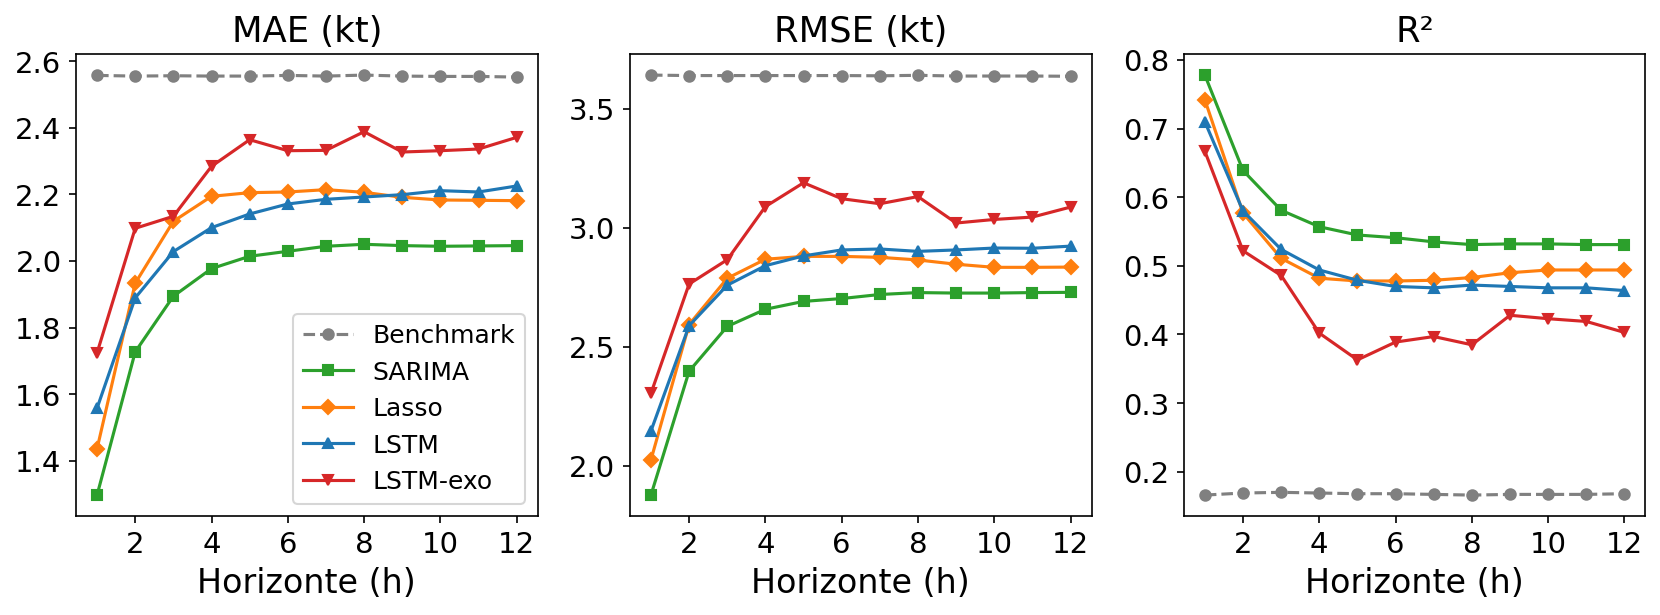
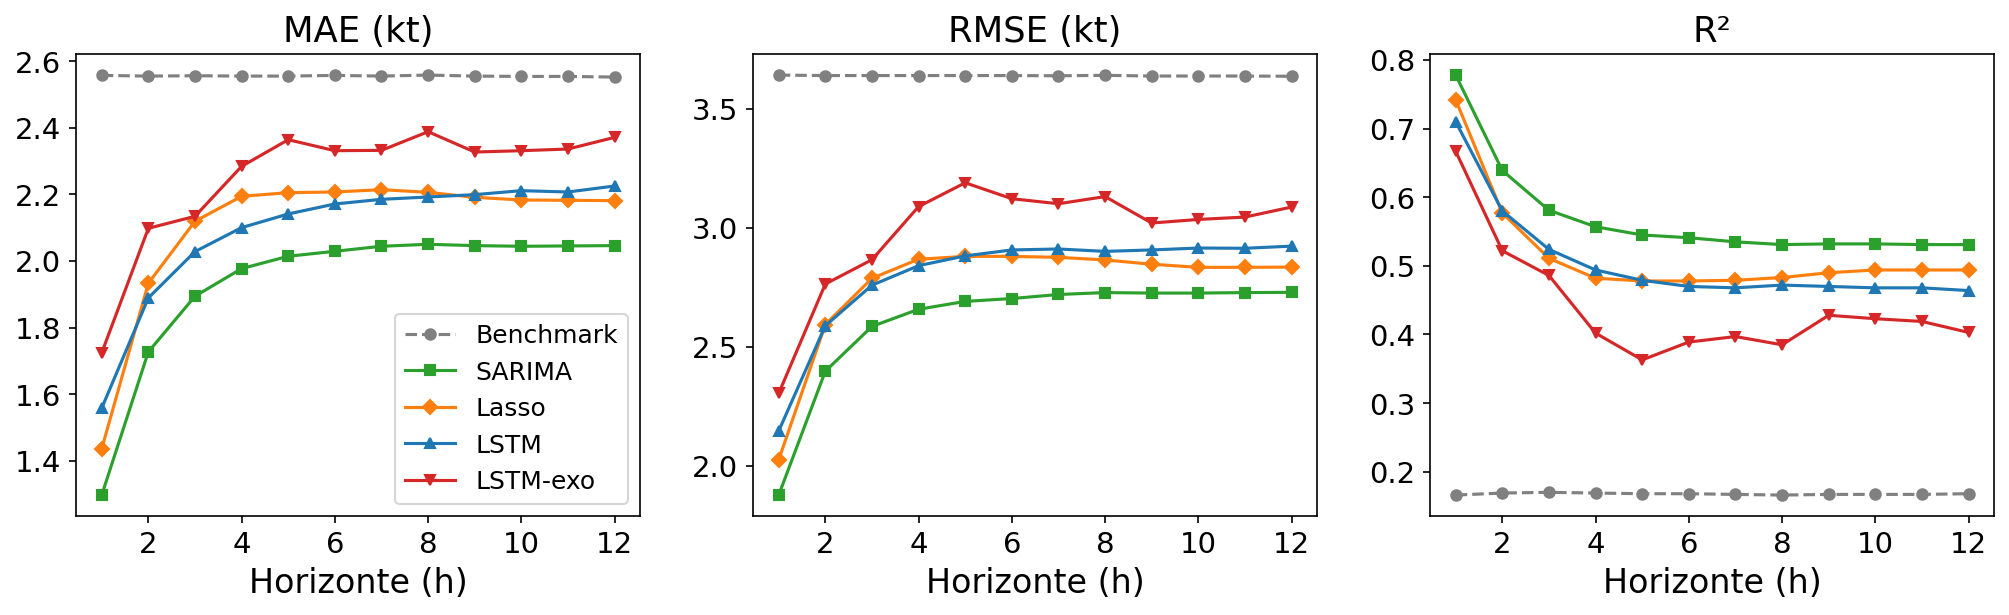
Rediseñar layout de slides y ajustar figuras
- Reducir fuente a 12pt y top-alinear todos los frames (opción t)
- Espaciado uniforme texto/gráfico y figuras al máximo tamaño
- Slide benchmark: nueva figura observado vs persistencia
- SARIMA diagnóstico: quitar paneles de error
- Redes neuronales: separar en dos slides (RMSE / val vs test)
- SARIMA selección y conclusiones: estructura vertical
- Comparación final: regenerar más ancha sin distorsión

diff --git a/presentacion/presentacion.tex b/presentacion/presentacion.tex
@@ -1,6 +1,6 @@
 % Presentación TP final — Pronóstico de viento en Potrerillos
 % Compilar: tectonic presentacion.tex
-\documentclass[17pt,aspectratio=169]{beamer}
+\documentclass[12pt,aspectratio=169,t]{beamer}
 
 \usetheme{Madrid}
 \usecolortheme{seahorse}
@@ -52,12 +52,13 @@
 % ---------- Slide 3: datos ----------
 \begin{frame}{Datos}
   \begin{itemize}\itemsep0pt
-    \item \textbf{Ago 2025 $\to$ abr 2026} ($\sim$8.5 meses) --- 1 dato/min $\to$ \textbf{resampleo 1\,h} (6145 obs)
+    \item \textbf{Ago 2025 $\to$ abr 2026} ($\sim$8.5 meses) · 1 dato/min $\to$ \textbf{resampleo 1\,h} (6145 obs)
     \item Mediana (lineales) · \textbf{media circular} (dirección)
     \item Faltantes: 4.5\,\%, 12 gaps de estación $\to$ \textbf{sin imputar}
   \end{itemize}
+  \vspace{0.6em}
   \centering
-  \includegraphics[width=0.95\textwidth,height=0.45\textheight,keepaspectratio]{serie_completa.png}
+  \includegraphics[width=\textwidth,height=0.54\textheight,keepaspectratio]{serie_completa.png}
 \end{frame}
 
 % ---------- Slide 4: EDA ciclo diurno ----------
@@ -66,13 +67,14 @@
     \item Ciclo térmico diario: calma nocturna $\sim$1--2 kt · pico 11--16\,h
     \item Sin tendencia de largo plazo
   \end{itemize}
+  \vspace{0.6em}
   \begin{columns}
-    \column{0.5\textwidth}
+    \column{0.4\textwidth}
       \centering
-      \includegraphics[width=\textwidth,height=0.6\textheight,keepaspectratio]{mediana_hora.png}
-    \column{0.5\textwidth}
+      \includegraphics[width=\textwidth,height=0.66\textheight,keepaspectratio]{mediana_hora.png}
+    \column{0.6\textwidth}
       \centering
-      \includegraphics[width=\textwidth,height=0.6\textheight,keepaspectratio]{descomposicion.png}
+      \includegraphics[width=\textwidth,height=0.66\textheight,keepaspectratio]{descomposicion.png}
   \end{columns}
 \end{frame}
 
@@ -83,8 +85,9 @@
     \item PACF: solo lags \textbf{1--2 y 20--24}
     \item ADF: $p \approx 10^{-21}$ $\to$ \textbf{estacionaria} (sin diferenciar)
   \end{itemize}
+  \vspace{0.6em}
   \centering
-  \includegraphics[width=0.95\textwidth,height=0.46\textheight,keepaspectratio]{acf_pacf.png}
+  \includegraphics[width=\textwidth,height=0.62\textheight,keepaspectratio]{acf_pacf.png}
 \end{frame}
 
 % ---------- Slide 6: frecuencia ----------
@@ -93,8 +96,9 @@
     \item Pico dominante: \textbf{1 ciclo/día} · secundario débil: 2 ciclos/día
     \item Sin periodicidades multi-día $\to$ forzante térmico puro, $S=24$
   \end{itemize}
+  \vspace{0.6em}
   \centering
-  \includegraphics[width=0.95\textwidth,height=0.46\textheight,keepaspectratio]{periodograma.png}
+  \includegraphics[width=\textwidth,height=0.6\textheight,keepaspectratio]{periodograma.png}
 \end{frame}
 
 % ---------- Slide 7: metodologia + benchmark ----------
@@ -104,8 +108,9 @@
     \item Benchmark: \textbf{persistencia estacional} $\;\hat{y}_{t+h} = y_{t+h-24}$
     \item RMSE \textbf{3.6 kt} · MAE 2.6 kt · $R^2$ 0.17
   \end{itemize}
+  \vspace{0.6em}
   \centering
-  \includegraphics[width=0.92\textwidth,height=0.46\textheight,keepaspectratio]{benchmark_horizonte.png}
+  \includegraphics[width=0.85\textwidth,height=0.54\textheight,keepaspectratio]{obs_vs_persistencia.png}
 \end{frame}
 
 % ---------- Slide 8: LassoCV ----------
@@ -114,40 +119,39 @@
     \item 32 features: \textbf{24 lags} + 5 exógenas + \textbf{sin/cos hora}
     \item L1 $\to$ selección automática · RMSE \textbf{2.8 kt} ($-24\,\%$) · $R^2$ 0.52
   \end{itemize}
+  \vspace{0.6em}
   \begin{columns}
     \column{0.52\textwidth}
       \centering
-      \includegraphics[width=\textwidth,height=0.55\textheight,keepaspectratio]{windowing.png}
+      \includegraphics[width=\textwidth,height=0.66\textheight,keepaspectratio]{windowing.png}
     \column{0.48\textwidth}
       \centering
-      \includegraphics[width=\textwidth,height=0.55\textheight,keepaspectratio]{lasso_vs_bench.png}
+      \includegraphics[width=\textwidth,height=0.66\textheight,keepaspectratio]{lasso_vs_bench.png}
   \end{columns}
 \end{frame}
 
 % ---------- Slide 9: SARIMA seleccion ----------
 \begin{frame}{Modelo superador: SARIMA --- selección}
-  \begin{columns}
-    \column{0.55\textwidth}
-      \begin{itemize}\itemsep4pt
-        \item ACF/PACF $\to$ AR corto + estacional $S=24$, $d=D=0$
-        \item Grid search por \textbf{AIC}:\\ $p,q \in \{0,1,2\}$ · $P,Q \in \{0,1\}$
-        \item Elegido: \textbf{SARIMA$(2,0,1)(1,0,1)_{24}$}
-      \end{itemize}
-    \column{0.45\textwidth}
-      \centering
-      \small
-      \begin{tabular}{ccccr}
-        \toprule
-        $p$ & $q$ & $P$ & $Q$ & AIC \\
-        \midrule
-        \textbf{2} & \textbf{1} & \textbf{1} & \textbf{1} & \textbf{20496} \\
-        1 & 1 & 1 & 1 & 20501 \\
-        2 & 0 & 1 & 1 & 20504 \\
-        1 & 0 & 1 & 1 & 20515 \\
-        2 & 1 & 1 & 0 & 21167 \\
-        \bottomrule
-      \end{tabular}
-  \end{columns}
+  \begin{itemize}\itemsep4pt
+    \item ACF/PACF $\to$ AR corto + estacional $S=24$, $d=D=0$
+    \item Grid search por \textbf{AIC}: $p,q \in \{0,1,2\}$ · $P,Q \in \{0,1\}$
+    \item Elegido: \textbf{SARIMA$(2,0,1)(1,0,1)_{24}$}
+  \end{itemize}
+  \vspace{2em}
+  \centering
+  \small
+  \setlength{\tabcolsep}{14pt}
+  \begin{tabular}{ccccr}
+    \toprule
+    $p$ & $q$ & $P$ & $Q$ & AIC \\
+    \midrule
+    \textbf{2} & \textbf{1} & \textbf{1} & \textbf{1} & \textbf{20496} \\
+    1 & 1 & 1 & 1 & 20501 \\
+    2 & 0 & 1 & 1 & 20504 \\
+    1 & 0 & 1 & 1 & 20515 \\
+    2 & 1 & 1 & 0 & 21167 \\
+    \bottomrule
+  \end{tabular}
 \end{frame}
 
 % ---------- Slide 10: SARIMA diagnostico ----------
@@ -156,26 +160,30 @@
     \item Ljung-Box \checkmark{} · Q--Q: \textbf{colas pesadas}
     \item RMSE \textbf{2.6 kt} ($\mathbf{-28\,\%}$) · $R^2$ 0.57 · $h{=}1$: $R^2$ 0.78
   \end{itemize}
+  \vspace{0.6em}
   \centering
-  \includegraphics[width=0.8\textwidth,height=0.26\textheight,keepaspectratio]{sarima_diag2.png}\\[2pt]
-  \includegraphics[width=0.8\textwidth,height=0.26\textheight,keepaspectratio]{sarima_vs_bench.png}
+  \includegraphics[width=\textwidth,height=0.66\textheight,keepaspectratio]{sarima_diag2.png}
 \end{frame}
 
 % ---------- Slide 11: redes ----------
-\begin{frame}{Alternativas: redes neuronales}
+\begin{frame}{Alternativas: redes neuronales --- RMSE por horizonte}
   \begin{itemize}\itemsep0pt
     \item Dense / LSTM · ventana $W{=}48$ · salida directa $H{=}12$
     \item LSTM: RMSE \textbf{2.8 kt} --- no supera a SARIMA (8$\times$ más parámetros)
+  \end{itemize}
+  \vspace{0.6em}
+  \centering
+  \includegraphics[width=\textwidth,height=0.66\textheight,keepaspectratio]{nn_vs_bench.png}
+\end{frame}
+
+% ---------- Slide 11b: redes (val vs test) ----------
+\begin{frame}{Alternativas: redes neuronales --- validación vs test}
+  \begin{itemize}\itemsep0pt
     \item Exógenas pasadas \textbf{no aportan} a resolución horaria
   \end{itemize}
-  \begin{columns}
-    \column{0.47\textwidth}
-      \centering
-      \includegraphics[width=\textwidth,height=0.45\textheight,keepaspectratio]{nn_overfit.png}
-    \column{0.53\textwidth}
-      \centering
-      \includegraphics[width=\textwidth,height=0.45\textheight,keepaspectratio]{nn_vs_bench.png}
-  \end{columns}
+  \vspace{0.6em}
+  \centering
+  \includegraphics[width=\textwidth,height=0.68\textheight,keepaspectratio]{nn_overfit.png}
 \end{frame}
 
 % ---------- Slide 12: comparacion final ----------
@@ -193,30 +201,27 @@
     Persistencia estacional & 2.6 & 3.6 & 0.17 & --- \\
     \bottomrule
   \end{tabular}
-  \vspace{0.5em}
+  \vspace{0.6em}
 
-  \includegraphics[width=0.9\textwidth,height=0.37\textheight,keepaspectratio]{comparacion_final.png}
+  \includegraphics[width=\textwidth,height=0.46\textheight,keepaspectratio]{comparacion_final.png}
 \end{frame}
 
 % ---------- Slide 13: conclusiones ----------
 \begin{frame}{Conclusiones y trabajo futuro}
-  \begin{columns}[t]
-    \column{0.5\textwidth}
-      \textbf{Conclusiones}
-      \begin{itemize}\itemsep2pt
-        \item Viento térmico $\approx$ reloj: \textbf{ciclo 24\,h domina}
-        \item \textbf{SARIMA}: $-28\,\%$ RMSE, simple y suficiente
-        \item Exógenas pasadas: no mejoran
-      \end{itemize}
-    \column{0.5\textwidth}
-      \textbf{Trabajo futuro}
-      \begin{itemize}\itemsep2pt
-        \item \textbf{SARIMAX}
-        \item \textbf{GARCH} $\to$ intervalos honestos
-        \item Encoding circular de dirección
-        \item Exógenas \textbf{pronosticadas} (NWP)
-      \end{itemize}
-  \end{columns}
+  \textbf{Conclusiones}
+  \begin{itemize}\itemsep2pt
+    \item Viento térmico $\approx$ reloj: \textbf{ciclo 24\,h domina}
+    \item \textbf{SARIMA}: $-28\,\%$ RMSE, simple y suficiente
+    \item Exógenas pasadas: no mejoran
+  \end{itemize}
+  \vspace{0.6em}
+  \textbf{Trabajo futuro}
+  \begin{itemize}\itemsep2pt
+    \item \textbf{SARIMAX}
+    \item \textbf{GARCH} $\to$ intervalos honestos
+    \item Encoding circular de dirección
+    \item Exógenas \textbf{pronosticadas} (NWP)
+  \end{itemize}
 \end{frame}
 
 \end{document}

diff --git a/presentacion/gen_comparacion.py b/presentacion/gen_comparacion.py
@@ -1,0 +1,80 @@
+# Regenera solo comparacion_final.png (mas ancha, sin distorsion)
+import os
+
+import matplotlib.pyplot as plt
+import pandas as pd
+
+plt.rcParams.update(
+    {
+        "font.size": 15,
+        "axes.titlesize": 17,
+        "axes.labelsize": 16,
+        "xtick.labelsize": 14,
+        "ytick.labelsize": 14,
+        "legend.fontsize": 14,
+        "figure.dpi": 150,
+        "savefig.bbox": "tight",
+    }
+)
+
+FIGS = os.path.join(os.path.dirname(__file__), "figs")
+H = list(range(1, 13))
+
+bench = pd.DataFrame(
+    {
+        "MAE": [2.557, 2.555, 2.556, 2.555, 2.555, 2.557, 2.555, 2.558, 2.555, 2.554, 2.554, 2.552],
+        "RMSE": [3.641, 3.639, 3.639, 3.639, 3.639, 3.639, 3.638, 3.640, 3.637, 3.637, 3.637, 3.636],
+        "R2": [0.166, 0.169, 0.170, 0.169, 0.168, 0.168, 0.167, 0.166, 0.167, 0.167, 0.167, 0.168],
+    },
+    index=H,
+)
+sarima = pd.DataFrame(
+    {
+        "MAE": [1.297, 1.727, 1.894, 1.977, 2.014, 2.029, 2.044, 2.050, 2.046, 2.044, 2.045, 2.046],
+        "RMSE": [1.878, 2.398, 2.586, 2.658, 2.691, 2.703, 2.720, 2.728, 2.726, 2.726, 2.728, 2.729],
+        "R2": [0.778, 0.639, 0.581, 0.557, 0.545, 0.541, 0.535, 0.531, 0.532, 0.532, 0.531, 0.531],
+    },
+    index=H,
+)
+lstm = pd.DataFrame(
+    {
+        "MAE": [1.558, 1.889, 2.028, 2.100, 2.141, 2.171, 2.185, 2.192, 2.199, 2.211, 2.207, 2.225],
+        "RMSE": [2.147, 2.589, 2.759, 2.841, 2.882, 2.907, 2.911, 2.901, 2.907, 2.915, 2.914, 2.923],
+        "R2": [0.710, 0.580, 0.524, 0.494, 0.479, 0.470, 0.468, 0.472, 0.470, 0.468, 0.468, 0.464],
+    },
+    index=H,
+)
+lstm_exo = pd.DataFrame(
+    {
+        "MAE": [1.724, 2.098, 2.134, 2.284, 2.364, 2.331, 2.332, 2.388, 2.327, 2.331, 2.336, 2.371],
+        "RMSE": [2.305, 2.764, 2.866, 3.089, 3.189, 3.122, 3.101, 3.131, 3.020, 3.035, 3.045, 3.087],
+        "R2": [0.667, 0.522, 0.486, 0.402, 0.363, 0.389, 0.397, 0.385, 0.428, 0.423, 0.419, 0.403],
+    },
+    index=H,
+)
+lasso = pd.DataFrame(
+    {
+        "MAE": [1.436, 1.933, 2.119, 2.194, 2.205, 2.207, 2.214, 2.206, 2.191, 2.183, 2.182, 2.181],
+        "RMSE": [2.026, 2.594, 2.788, 2.868, 2.880, 2.880, 2.876, 2.865, 2.847, 2.834, 2.834, 2.835],
+        "R2": [0.742, 0.577, 0.511, 0.482, 0.478, 0.478, 0.479, 0.483, 0.490, 0.494, 0.494, 0.494],
+    },
+    index=H,
+)
+
+fig, axes = plt.subplots(1, 3, figsize=(16.5, 4))
+curvas = [
+    ("Benchmark", bench, "o", "gray", "--"),
+    ("SARIMA", sarima, "s", "C2", "-"),
+    ("Lasso", lasso, "D", "C1", "-"),
+    ("LSTM", lstm, "^", "C0", "-"),
+    ("LSTM-exo", lstm_exo, "v", "C3", "-"),
+]
+for ax, col, lab in zip(axes, ["MAE", "RMSE", "R2"], ["MAE (kt)", "RMSE (kt)", "R²"]):
+    for nombre, tabla, mk, color, ls in curvas:
+        ax.plot(H, tabla[col], marker=mk, ms=5, color=color, ls=ls, label=nombre)
+    ax.set_xlabel("Horizonte (h)")
+    ax.set_title(lab)
+    ax.set_xticks(range(2, 13, 2))
+axes[0].legend(fontsize=12)
+fig.savefig(os.path.join(FIGS, "comparacion_final.png"))
+print("ok: comparacion_final.png")

diff --git a/presentacion/gen_obs_persistencia.py b/presentacion/gen_obs_persistencia.py
@@ -1,0 +1,58 @@
+# Observado vs persistencia estacional (y_{t-24}) en una ventana de test
+import os
+
+import matplotlib.dates as mdates
+import matplotlib.pyplot as plt
+import numpy as np
+import pandas as pd
+from scipy import stats
+
+plt.rcParams.update(
+    {
+        "font.size": 15,
+        "axes.titlesize": 17,
+        "axes.labelsize": 16,
+        "xtick.labelsize": 14,
+        "ytick.labelsize": 14,
+        "legend.fontsize": 14,
+        "figure.dpi": 150,
+        "savefig.bbox": "tight",
+    }
+)
+
+FIGS = os.path.join(os.path.dirname(__file__), "figs")
+
+
+def circular_mean(angles):
+    a = angles.dropna()
+    return round(stats.circmean(a, high=360, low=0)) if a.size > 0 else np.nan
+
+
+df = pd.read_csv(os.path.join(os.path.dirname(__file__), "..", "data", "station_15338.csv"))
+df.set_index(pd.to_datetime(df["datetime"]), inplace=True)
+df.drop(columns=["datetime", "unixtime"], inplace=True)
+median_cols = ["wind_avg", "wind_max", "temperature", "rh", "mslp"]
+df = (
+    df.resample("1h")
+    .agg({**{c: "median" for c in median_cols}, "wind_direction": circular_mean})
+    .asfreq("1h")
+)
+
+wind = df["wind_avg"].ffill().bfill()
+persist = wind.shift(24)  # persistencia estacional: repite el dia anterior
+
+win = slice("2026-03-04", "2026-03-06 23:00")
+obs_w = wind.loc[win]
+per_w = persist.loc[win]
+
+fig, ax = plt.subplots(figsize=(11, 3.4))
+ax.plot(obs_w.index, obs_w.values, color="C0", lw=2, label="Observado")
+ax.plot(per_w.index, per_w.values, color="C1", lw=2, ls="--", label="Persistencia ($y_{t-24}$)")
+ax.set_ylabel("wind_avg (kt)")
+ax.set_title("Persistencia estacional: repite el día anterior (ventana de test)")
+ax.xaxis.set_major_locator(mdates.DayLocator())
+ax.xaxis.set_major_formatter(mdates.DateFormatter("%d-%b"))
+ax.margins(x=0.01)
+ax.legend(ncols=2, loc="upper left")
+fig.savefig(os.path.join(FIGS, "obs_vs_persistencia.png"))
+print("ok: obs_vs_persistencia.png")

diff --git a/presentacion/gen_figs.py b/presentacion/gen_figs.py
@@ -260,7 +260,7 @@ ax.legend()
 save(fig, "nn_vs_bench.png")
 
 # ---------- 12. comparacion final ----------
-fig, axes = plt.subplots(1, 3, figsize=(13.5, 4))
+fig, axes = plt.subplots(1, 3, figsize=(16.5, 4))
 curvas = [
     ("Benchmark", bench, "o", "gray", "--"),
     ("SARIMA", sarima, "s", "C2", "-"),